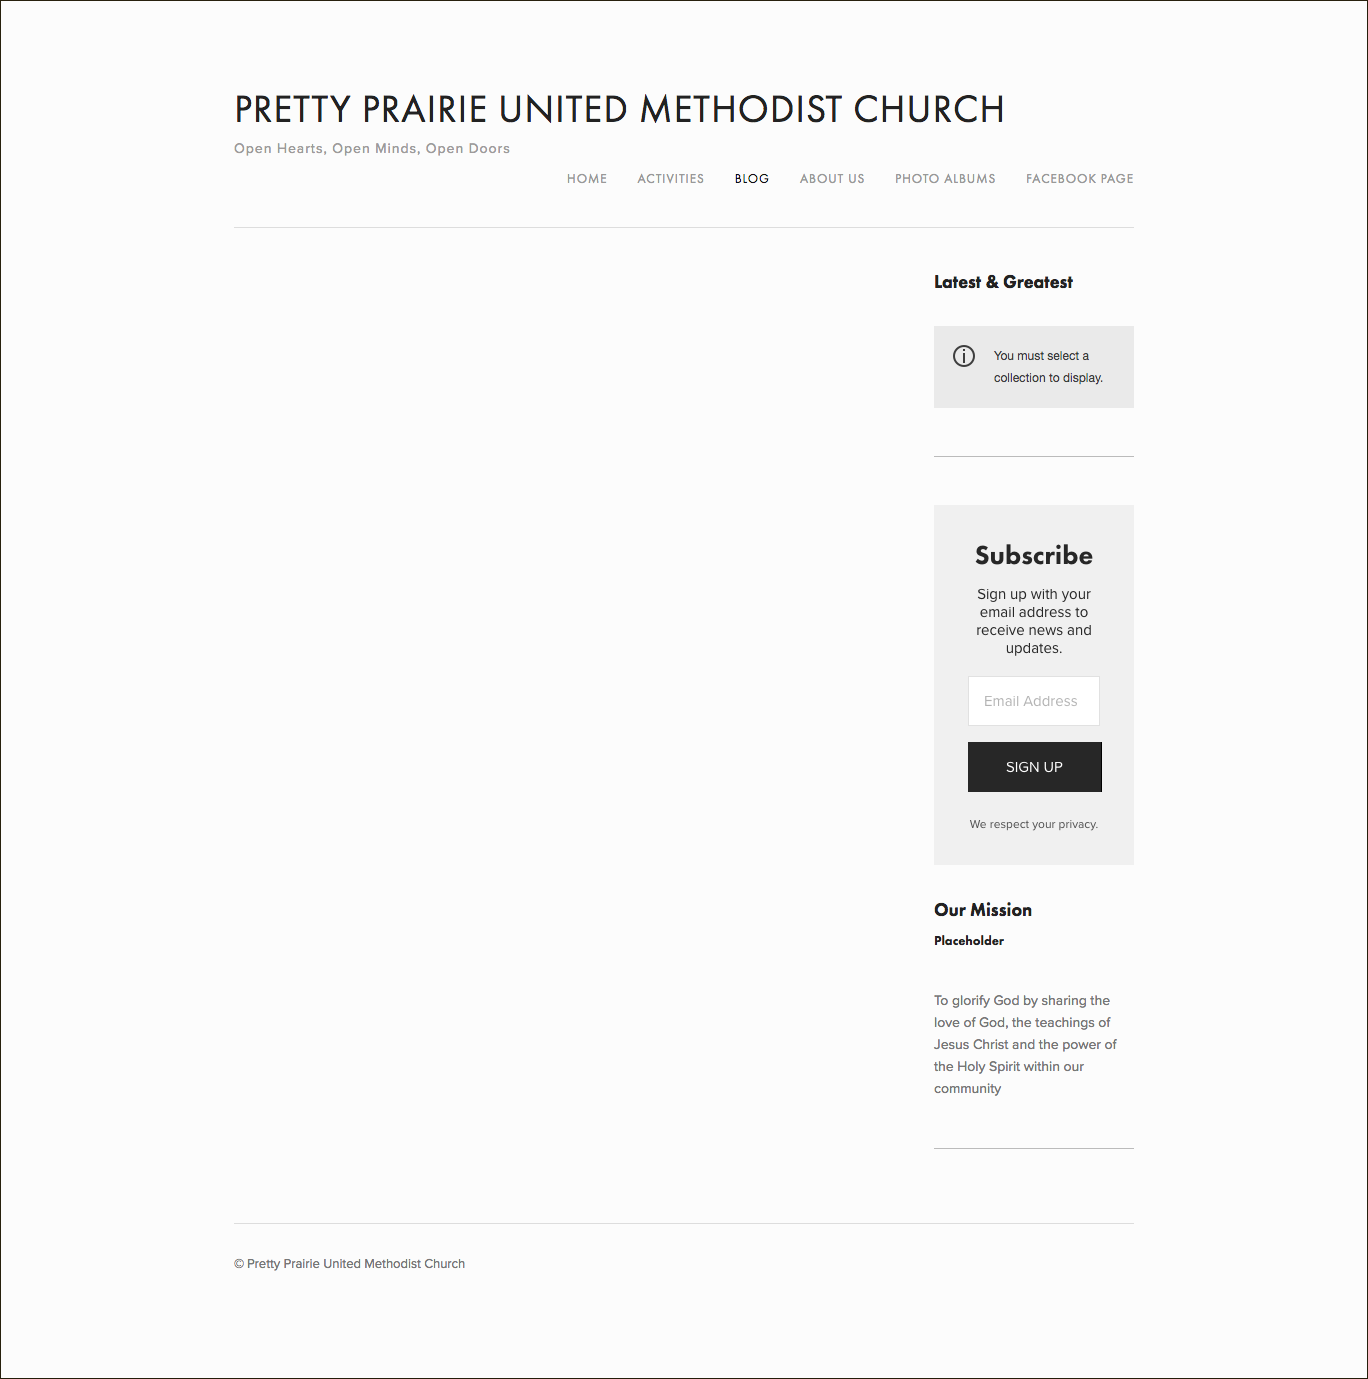
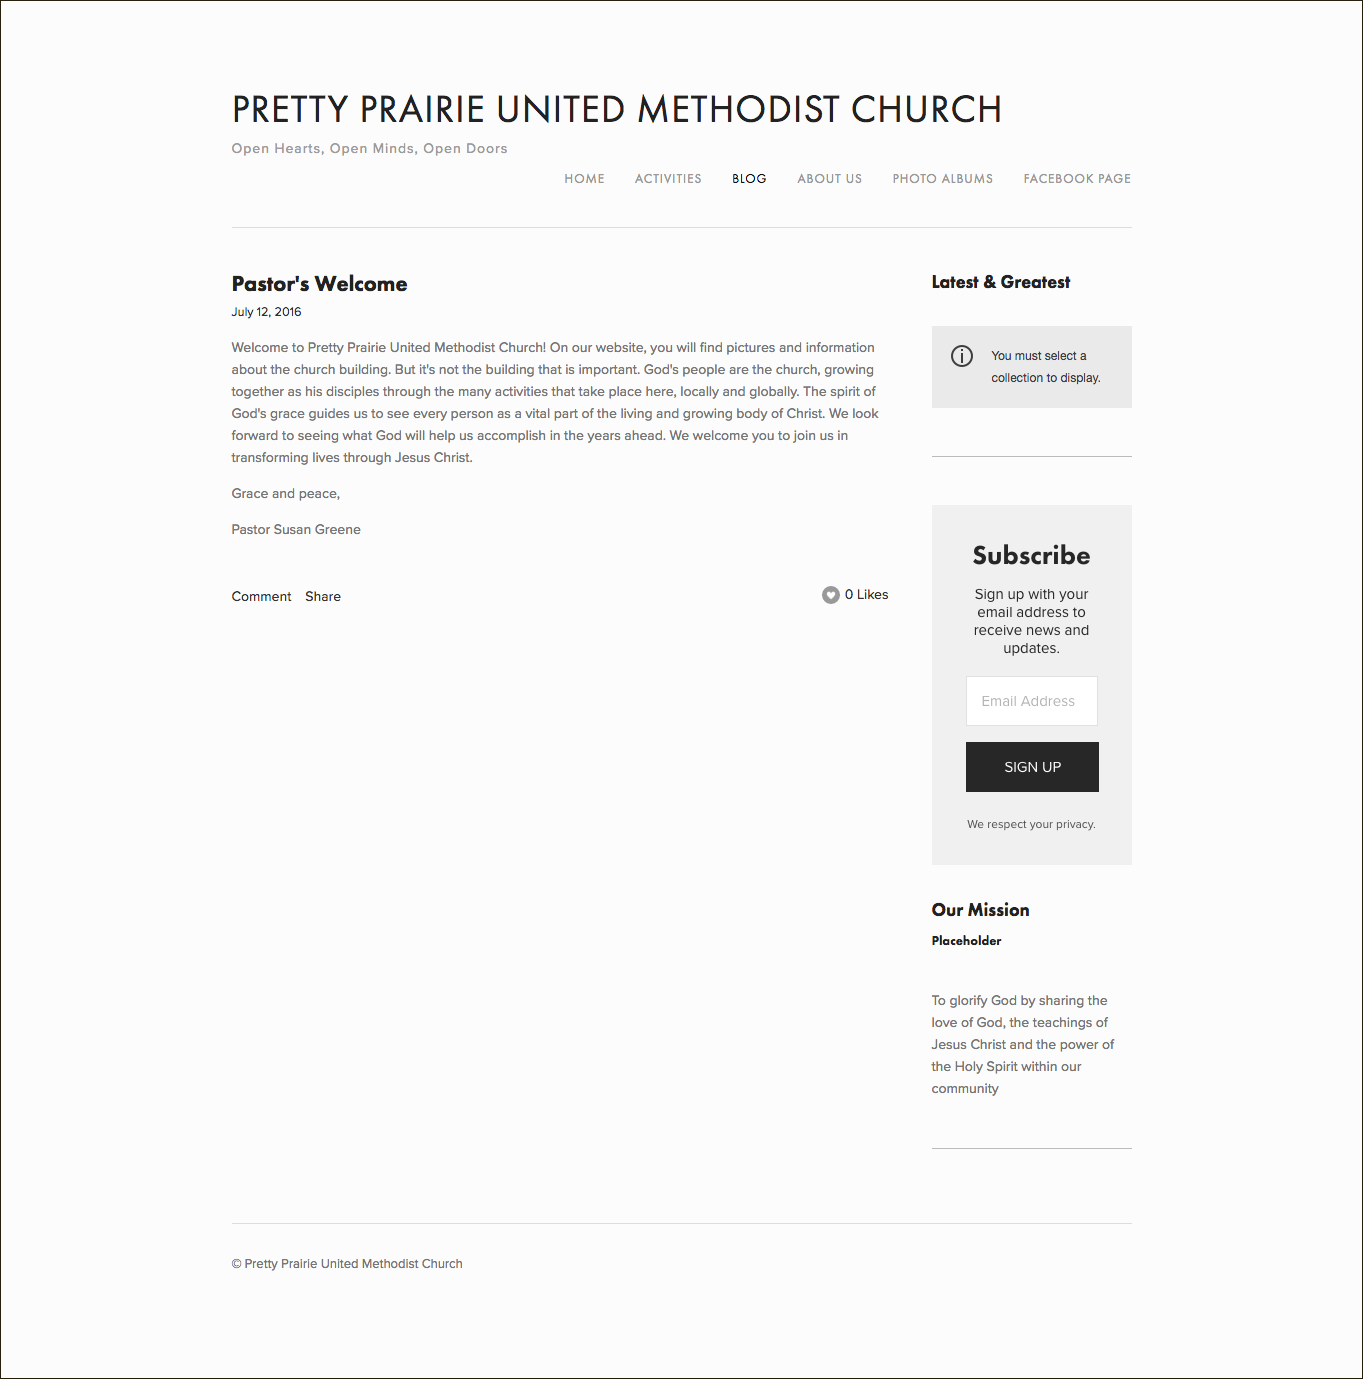
Adding screenshots

diff --git a/design/self-hosted-website.md b/design/self-hosted-website.md
@@ -10,8 +10,8 @@ Self-Hosted Church Website Activities Page
 Self-Hosted Church Website Blog Homepage
 ![](images/self-hosted-church-website-blog-homepage.png)
 
-Self-Hosted Church Website Blog Detail Page
-![](images/self-hosted-church-website-blog-post-page.png)
+Self-Hosted Church Website Blog Post
+![](images/self-hosted-church-website-blog-post.png)
 
 Self-Hosted Church Website About Page
 ![](images/self-hosted-church-website-about-page.png)

diff --git a/design/before-and-after.md b/design/before-and-after.md
@@ -22,9 +22,10 @@ Squarespace Blog Homepage
 Self-Hosted Church Website Blog Homepage
 ![](images/self-hosted-church-website-blog-homepage.png)
 
-Squarespace Blog Detail Page
+Squarespace Blog Post
+![](images/original-website-blog-post.png)
 
-Self-Hosted Church Website Blog Detail Page
+Self-Hosted Church Website Blog Post
 ![](images/self-hosted-church-website-blog-post-page.png)
 
 Squarespace About Page

diff --git a/design/squarespace-website.md b/design/squarespace-website.md
@@ -12,6 +12,9 @@ Activities Page
 Blog Homepage
 ![](images/original-website-blog.png)
 
+Blog Post
+![](images/original-website-blog-post.png)
+
 About Page
 ![](images/original-website-about.png)
 
